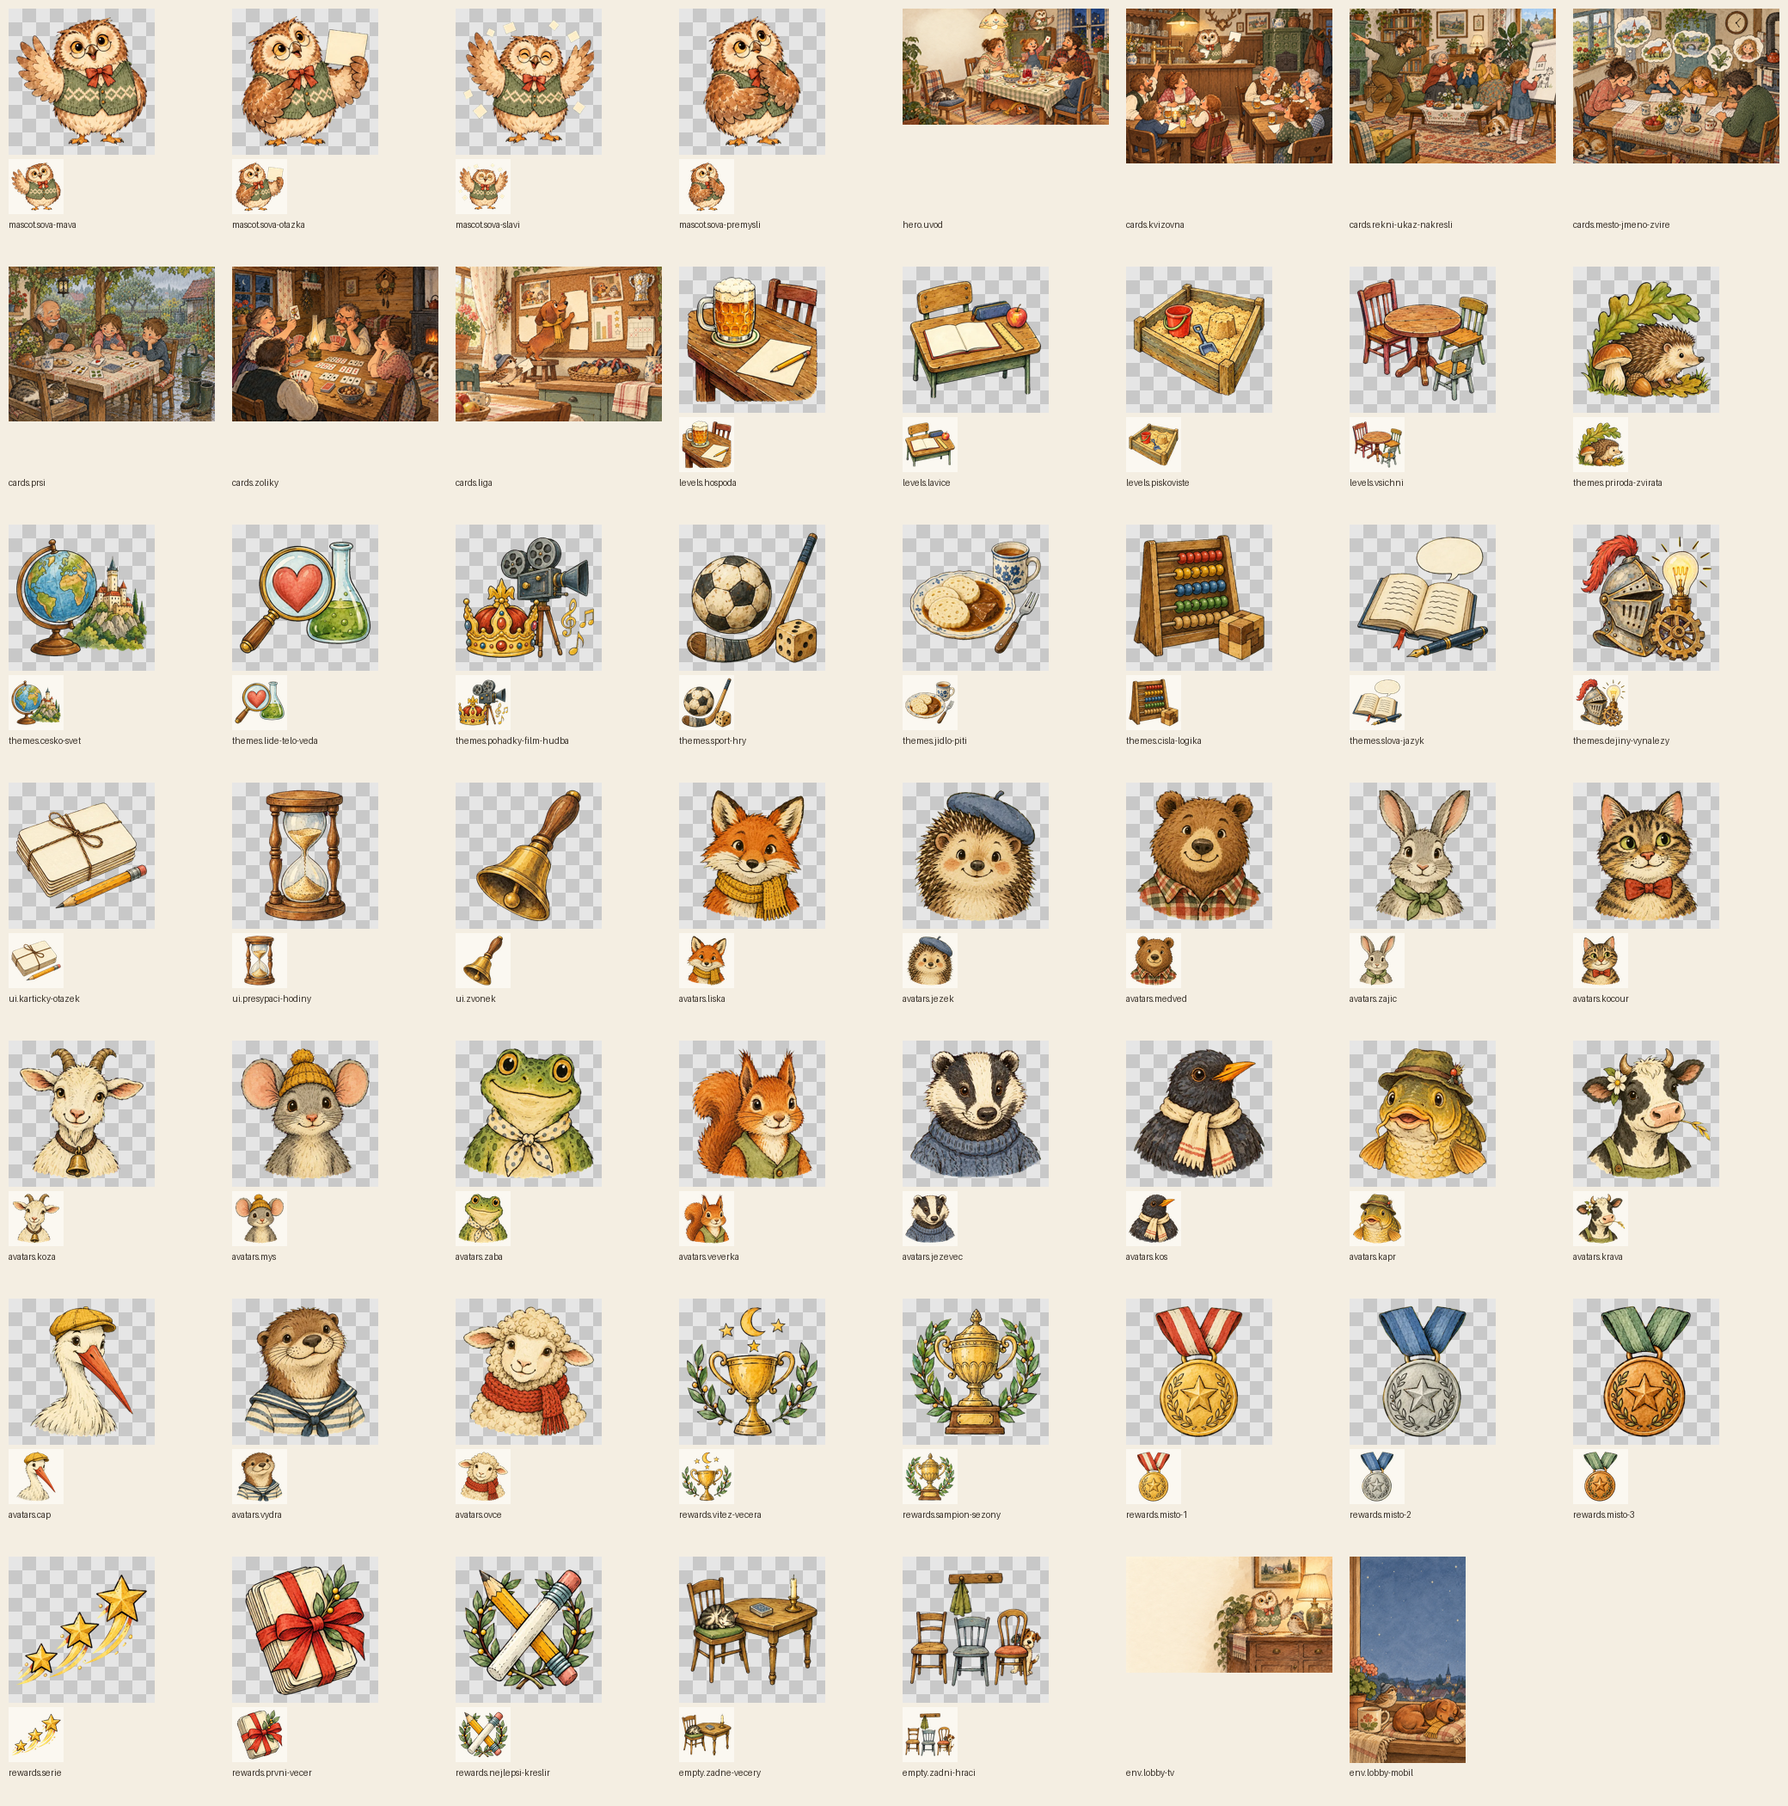
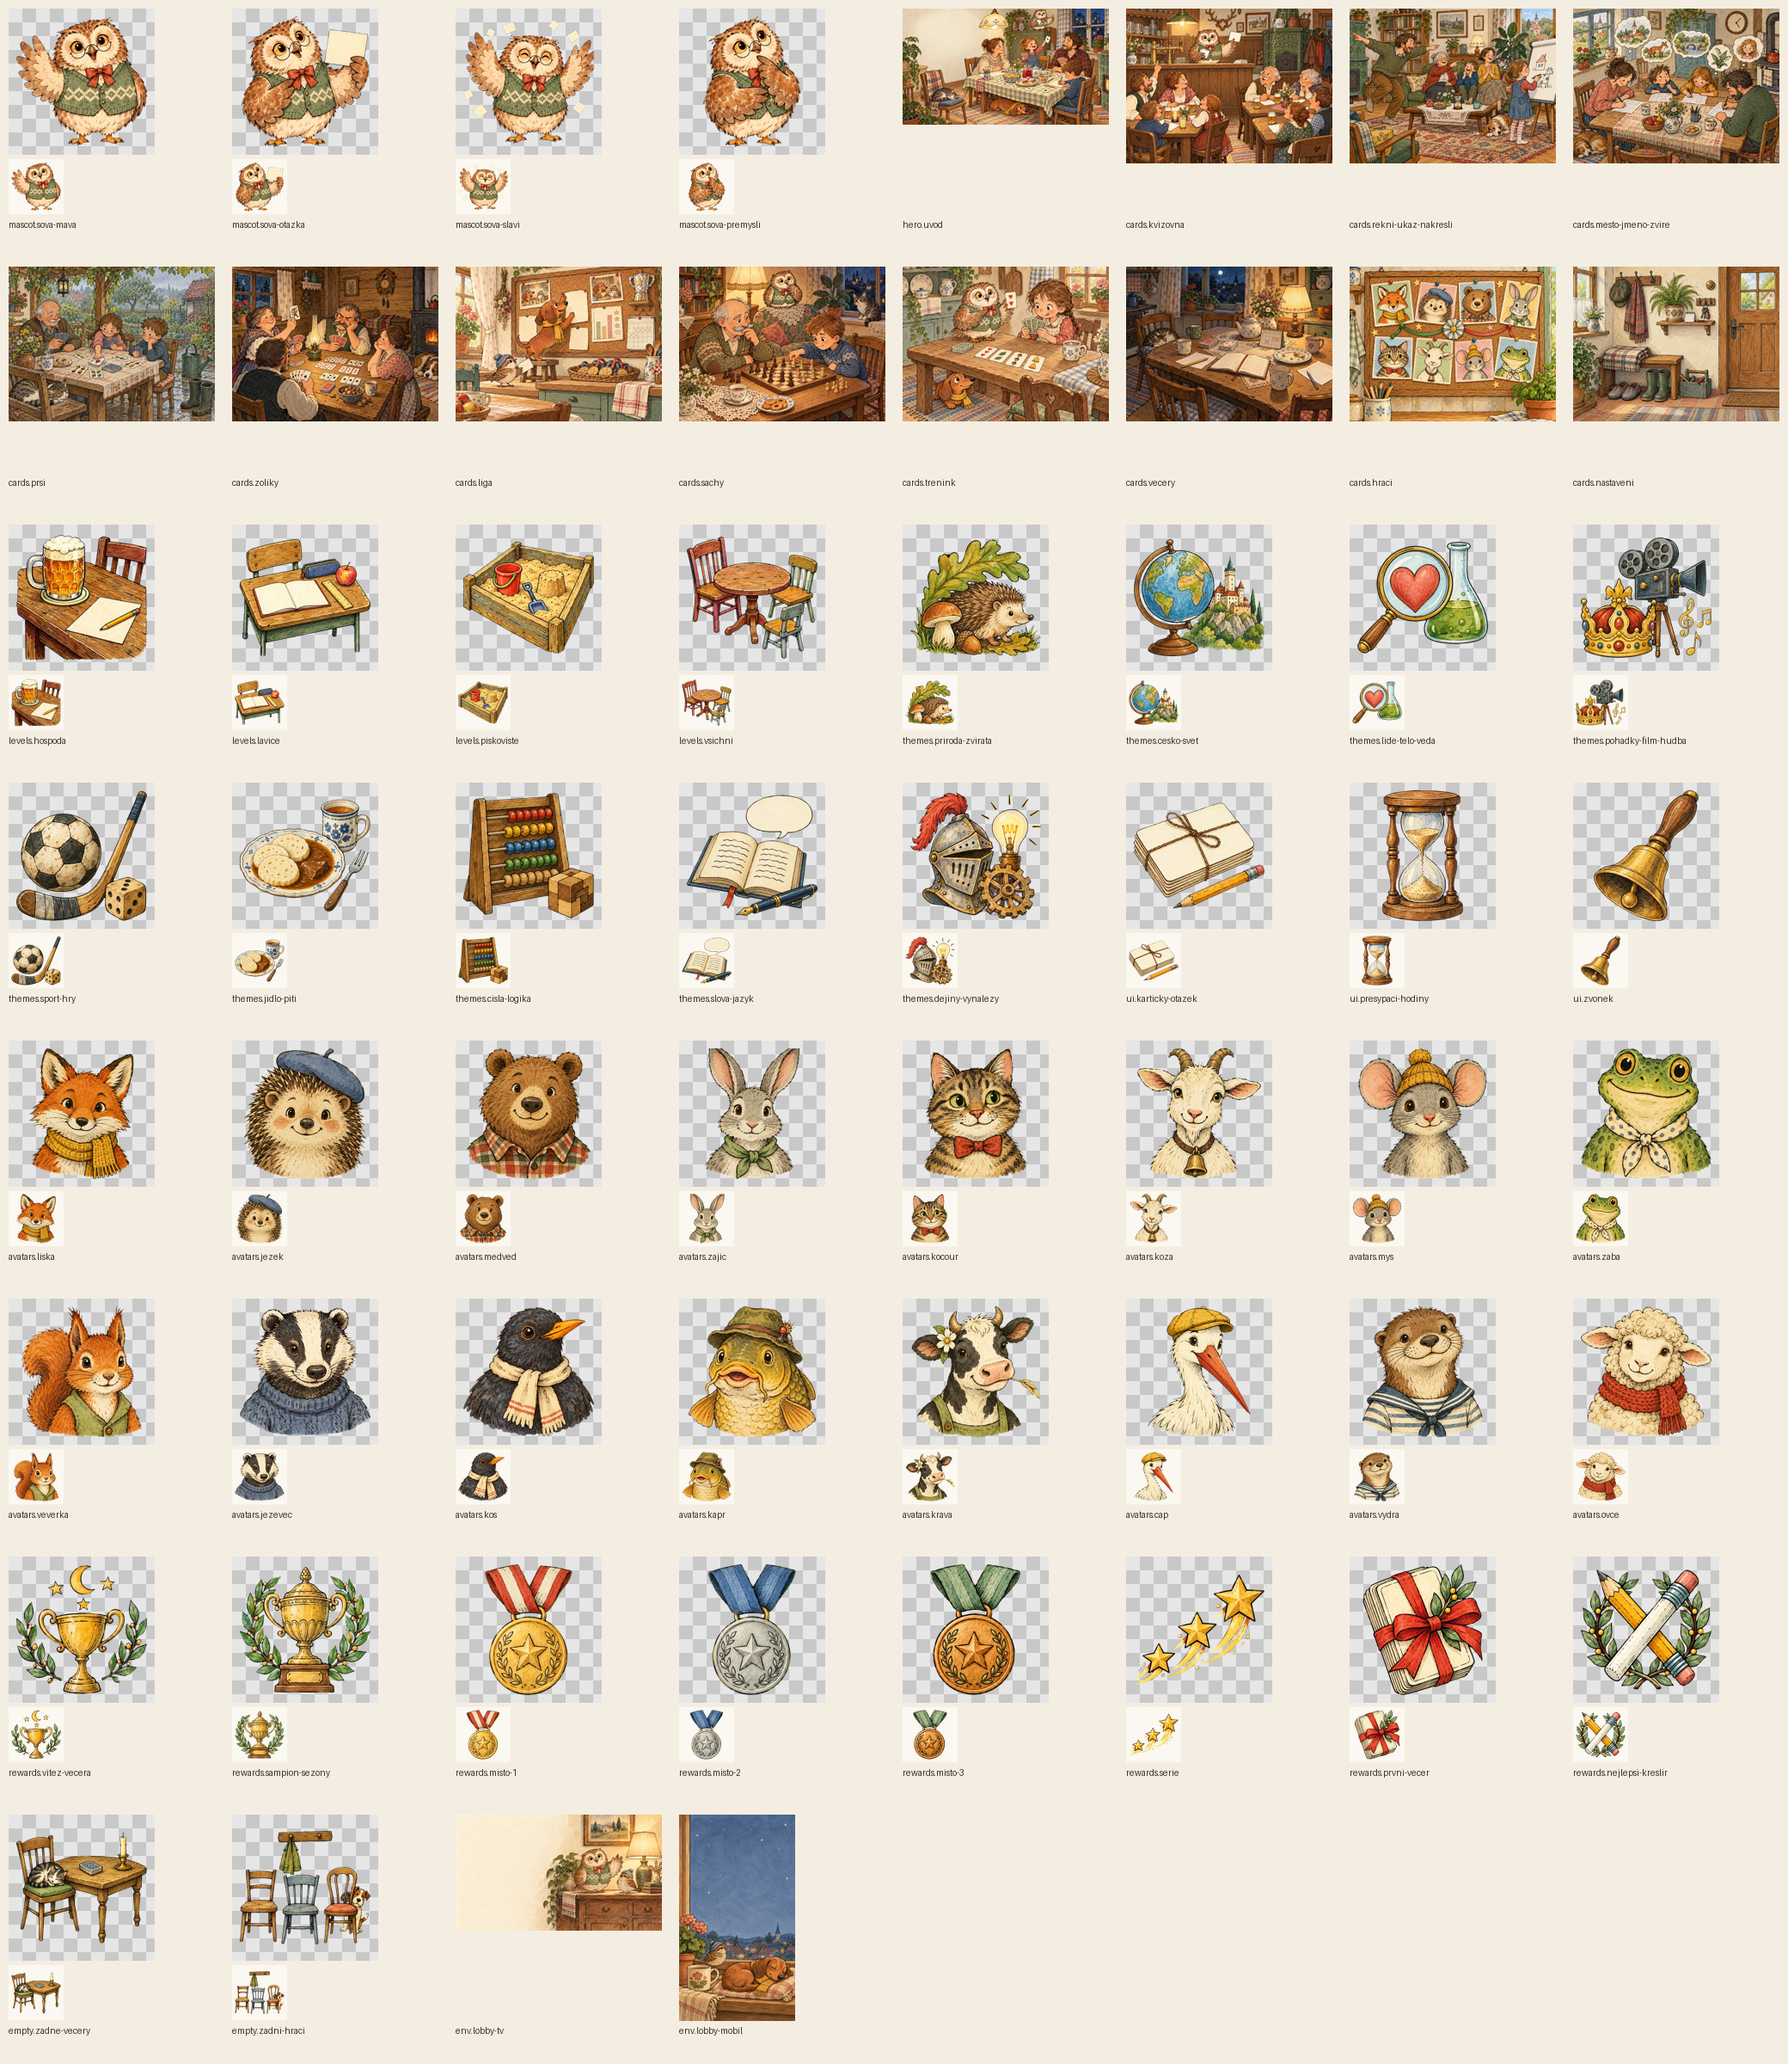
feat(art): own illustrations for chess, card training, evenings, players and settings; eager game tiles; level art on players
Chess no longer borrows the thinking owl. Game tiles load eagerly, so they are never blank
below the fold. The empty discard pile shows a dash instead of a second „Odhozené“ label.
Players, player profile and chess guest picker show level illustrations instead of emoji.

Claude-Session: https://claude.ai/code/session_015SrzPLfnfP9FnPxmHBhUN2

diff --git a/src/routes/+page.svelte b/src/routes/+page.svelte
@@ -243,13 +243,13 @@
         <GameCard art={GAME_ART.sachy} title={GAME_NAMES.sachy} text="Proti počítači, ve dvou nebo s lekcemi od sovy." href="/sachy" testid="game-sachy" />
         <GameCard art={GAME_ART.prsi} title={GAME_NAMES.prsi} text="Zápis partie s opravdovými kartami." href={cardsHref('prsi')} testid="game-prsi" />
         <GameCard art={GAME_ART.zoliky} title={GAME_NAMES.zoliky} text="Zápis partie s opravdovými kartami." href={cardsHref('zoliky')} testid="game-zoliky" />
+        <GameCard art="cards.trenink" title="Trénink karet" text="Prší a žolíky se sovou: lekce a hra s počítačem." href="/trenink" testid="game-trenink" />
       </div>
       <div class="row more" aria-label="Další způsoby hry">
         <a class="btn" href={today ? `/tablet?night=${today.id}` : '/tablet'}>🦉 Kvízovna na jednom tabletu</a>
         <a class="btn" href={tvHref('chess')}>📺 Šachy na televizi</a>
         <a class="btn" href={tvHref('prsi-hra')}>📺 Prší na televizi</a>
         <a class="btn" href={tvHref('zoliky-hra')}>📺 Žolíky na televizi</a>
-        <a class="btn" href="/trenink">🎓 Trénink karet</a>
       </div>
     </section>
 
@@ -257,9 +257,9 @@
       <h2 class="section-title">Rodina</h2>
       <div class="games small-games">
         <GameCard small art="cards.liga" title="Liga" text="Tabulka sezóny, ratingy a rekordy." href="/liga" />
-        <GameCard small art="rewards.vitez-vecera" title="Večery" text="Odehrané večery a jejich výsledky." href="/vecery" />
-        <GameCard small art="avatars.liska" title="Hráči" text="Profily, avatary a týmy." href="/hraci" />
-        <GameCard small art="ui.zvonek" title="Nastavení domácnosti" text="Účet, PIN, pozvánky a data." href="/domacnost" />
+        <GameCard small art="cards.vecery" title="Večery" text="Odehrané večery a jejich výsledky." href="/vecery" />
+        <GameCard small art="cards.hraci" title="Hráči" text="Profily, avatary a týmy." href="/hraci" />
+        <GameCard small art="cards.nastaveni" title="Nastavení domácnosti" text="Účet, PIN, pozvánky a data." href="/domacnost" />
       </div>
     </section>
 

diff --git a/src/routes/hraci/+page.svelte b/src/routes/hraci/+page.svelte
@@ -1,9 +1,10 @@
 <script lang="ts">
   import { LEVELS, LEVEL_LABELS, type Level } from '#lib/types.ts';
-  import { AVATARS, LEVEL_EMOJI, TEAM_AVATARS } from '#lib/ui/labels.ts';
+  import { AVATARS, TEAM_AVATARS } from '#lib/ui/labels.ts';
+  import ArtIcon from '#lib/ui/live/ArtIcon.svelte';
   import Art from '#lib/ui/art/Art.svelte';
   import Avatar from '#lib/ui/art/Avatar.svelte';
-  import { ART_AVATARS, avatarName, freeArtAvatar } from '#lib/ui/art/art.ts';
+  import { ART_AVATARS, LEVEL_ART, avatarName, freeArtAvatar } from '#lib/ui/art/art.ts';
   import { api, ApiError } from '#lib/ui/app/api.ts';
   import Guard from '#lib/ui/app/Guard.svelte';
   import { session } from '#lib/ui/app/session.svelte.ts';
@@ -155,7 +156,7 @@
                 <span class="grow">
                   <span class="name">{p.name}</span>
                   <span class="meta">
-                    <span class="badge {p.level}">{LEVEL_EMOJI[p.level]} {LEVEL_LABELS[p.level]}</span>
+                    <span class="badge {p.level}"><ArtIcon name={LEVEL_ART[p.level]} /> {LEVEL_LABELS[p.level]}</span>
                     {#if p.birth_year}<span class="muted">nar. {p.birth_year}</span>{/if}
                   </span>
                 </span>
@@ -184,7 +185,7 @@
           <div class="row" role="group" aria-label="Úroveň">
             {#each LEVELS as level (level)}
               <button type="button" class="chip" aria-pressed={formLevel === level} onclick={() => (formLevel = level)}>
-                <span class="emoji">{LEVEL_EMOJI[level]}</span>{LEVEL_LABELS[level]}
+                <ArtIcon name={LEVEL_ART[level]} /> {LEVEL_LABELS[level]}
               </button>
             {/each}
           </div>

diff --git a/src/routes/hrac/[id]/+page.svelte b/src/routes/hrac/[id]/+page.svelte
@@ -1,7 +1,8 @@
 <script lang="ts">
   import { page } from '$app/state';
   import { LEVEL_LABELS, LEVELS, THEME_LABELS, type Level, type Theme } from '#lib/types.ts';
-  import { LEVEL_EMOJI, THEME_EMOJI } from '#lib/ui/labels.ts';
+  import { THEME_EMOJI } from '#lib/ui/labels.ts';
+  import ArtIcon from '#lib/ui/live/ArtIcon.svelte';
   import { api, ApiError, formatDateTime, GAME_EMOJI, GAME_LABELS, percent } from '#lib/ui/app/api.ts';
   import Guard from '#lib/ui/app/Guard.svelte';
   import Medal from '#lib/ui/app/Medal.svelte';
@@ -78,7 +79,7 @@
         <div class="grow">
           <h1>{p.name}</h1>
           <div class="row meta">
-            <span class="badge {p.level}">{LEVEL_EMOJI[p.level]} {LEVEL_LABELS[p.level]}</span>
+            <span class="badge {p.level}"><ArtIcon name={LEVEL_ART[p.level]} /> {LEVEL_LABELS[p.level]}</span>
             {#if p.birth_year}<span class="muted">nar. {p.birth_year}</span>{/if}
             {#if p.archived_at}<span class="muted">archivovaný</span>{/if}
           </div>

diff --git a/src/lib/ui/live/ZolikyPhone.svelte b/src/lib/ui/live/ZolikyPhone.svelte
@@ -185,7 +185,7 @@
         <span class="muted small">Balíček ({view.stockCount})</span>
       </button>
       <button type="button" class="pile" disabled={!myTurn || view.step !== 'draw' || !view.topDiscard} onclick={() => room.actZoliky({ type: 'takeDiscard' })} aria-label="Vzít z odhozených" data-testid="discard">
-        {#if view.topDiscard}<Card id={view.topDiscard} width={58} />{:else}<span class="empty">—</span>{/if}
+        {#if view.topDiscard}<Card id={view.topDiscard} width={58} />{:else}<span class="empty" aria-hidden="true">—</span>{/if}
         <span class="muted small">Odhozené</span>
       </button>
       <div class="stack tight">{#each recent as line, i (i + line)}<span class="muted small">{line}</span>{/each}</div>

diff --git a/src/lib/ui/chess/PlayerPicker.svelte b/src/lib/ui/chess/PlayerPicker.svelte
@@ -1,6 +1,7 @@
 <script lang="ts">
   import { LEVELS, LEVEL_LABELS } from '../../types.ts';
-  import { LEVEL_EMOJI } from '../labels.ts';
+  import { LEVEL_ART } from '../art/art.ts';
+  import ArtIcon from '../live/ArtIcon.svelte';
   import Avatar from '../art/Avatar.svelte';
   import type { Profile } from '../../storage.ts';
   import type { Learner as Picked } from './storage.ts';
@@ -58,7 +59,7 @@
           onclick={() => {
             guest.level = level;
             onchange({ ...guest });
-          }}><span aria-hidden="true">{LEVEL_EMOJI[level]}</span>{LEVEL_LABELS[level]}</button
+          }}><ArtIcon name={LEVEL_ART[level]} /> {LEVEL_LABELS[level]}</button
         >
       {/each}
     </div>

diff --git a/src/lib/ui/karty-hra/ZolikyTable.svelte b/src/lib/ui/karty-hra/ZolikyTable.svelte
@@ -265,7 +265,7 @@
         <span class="muted small">Balíček ({game.stock.length})</span>
       </button>
       <button type="button" class="pile" disabled={!myTurn || game.step !== 'draw' || !top} onclick={() => run({ type: 'takeDiscard' })} aria-label="Vzít z odhozených" data-testid="discard">
-        {#if top}<Card id={top} width={74} />{:else}<span class="empty">Odhozené</span>{/if}
+        {#if top}<Card id={top} width={74} />{:else}<span class="empty" aria-hidden="true">—</span>{/if}
         <span class="muted small">Odhozené</span>
       </button>
     </div>

diff --git a/src/lib/live/games.ts b/src/lib/live/games.ts
@@ -12,12 +12,12 @@ export const ROOM_GAME_LABELS: Record<RoomGame, string> = {
   'zoliky-hra': 'Žolíky',
 };
 
-/** Illustration of each room game (static/art/manifest.json); chess borrows the thinking owl. */
+/** Illustration of each room game (static/art/manifest.json). */
 export const ROOM_GAME_ART: Record<RoomGame, string> = {
   quiz: 'cards.kvizovna',
   aktivity: 'cards.rekni-ukaz-nakresli',
   mjz: 'cards.mesto-jmeno-zvire',
-  chess: 'mascot.sova-premysli',
+  chess: 'cards.sachy',
   'prsi-hra': 'cards.prsi',
   'zoliky-hra': 'cards.zoliky',
 };

diff --git a/src/lib/ui/art/art.ts b/src/lib/ui/art/art.ts
@@ -109,12 +109,12 @@ export const GAME_NAMES: Record<GameId, string> = {
   zoliky: 'Žolíky',
 };
 
-/** Card illustration per game. Chess has no picture of its own yet; the mascot thinking over a move stands in. */
+/** Card illustration per game. */
 export const GAME_ART: Record<GameId, string> = {
   kvizovna: 'cards.kvizovna',
   aktivity: 'cards.rekni-ukaz-nakresli',
   mjz: 'cards.mesto-jmeno-zvire',
-  sachy: 'mascot.sova-premysli',
+  sachy: 'cards.sachy',
   prsi: 'cards.prsi',
   zoliky: 'cards.zoliky',
 };

diff --git a/src/lib/ui/live/ZolikyTv.svelte b/src/lib/ui/live/ZolikyTv.svelte
@@ -69,7 +69,7 @@
             <span class="muted">Balíček ({view.stockCount})</span>
           </div>
           <div class="pile" data-testid="discard">
-            {#if view.topDiscard}<Card id={view.topDiscard} width={110} />{:else}<span class="empty">—</span>{/if}
+            {#if view.topDiscard}<Card id={view.topDiscard} width={110} />{:else}<span class="empty" aria-hidden="true">—</span>{/if}
             <span class="muted">Odhozené ({view.discardCount})</span>
           </div>
         </div>

diff --git a/src/lib/ui/art/GameCard.svelte b/src/lib/ui/art/GameCard.svelte
@@ -38,7 +38,8 @@
 </script>
 
 {#snippet body()}
-  <span class="pic" class:icon><Art name={artName} decorative {sizes} /></span>
+  <!-- Eager: the tiles are the page itself; lazy loading left them blank in full-page captures and on slow scrolls. -->
+  <span class="pic" class:icon><Art name={artName} decorative eager {sizes} /></span>
   <span class="txt">
     <strong>{title}</strong>
     {#if text}<span class="muted">{text}</span>{/if}

diff --git a/design/art/tools/process.py b/design/art/tools/process.py
@@ -30,6 +30,11 @@ ITEMS = [
   ("cards", "prsi", "cards/prsi.png", None, (1200, 900), "Děda s dětmi hraje Prší pod pergolou, venku prší"),
   ("cards", "zoliky", "cards/zoliky.png", None, (1200, 900), "Dospělí na chatě hrají žolíky, teta drží žolíka"),
   ("cards", "liga", "cards/liga.png", None, (1200, 900), "Nástěnka rodinné ligy s výsledky, jezevčík připíná nový list"),
+  ("cards", "sachy", "cards/sachy.png", None, (1200, 900), "Děda s vnukem hrají šachy v obýváku, sova přihlíží"),
+  ("cards", "trenink", "cards/trenink.png", None, (1200, 900), "Sova učí holčičku karty u kuchyňského stolu"),
+  ("cards", "vecery", "cards/vecery.png", None, (1200, 900), "Večerní stůl po hře: zápisník, kalendář a karty"),
+  ("cards", "hraci", "cards/hraci.png", None, (1200, 900), "Nástěnka s portréty zvířátek-hráčů"),
+  ("cards", "nastaveni", "cards/nastaveni.png", None, (1200, 900), "Domácí kout u dveří s klíči a bločkem"),
   ("levels", "hospoda", "grids/levels.png", 0, (512, 512), "Hospoda – úroveň pro dospělé: pivo a odpovědní lístek"),
   ("levels", "lavice", "grids/levels.png", 1, (512, 512), "Lavice – úroveň pro školáky: školní lavice se sešitem"),
   ("levels", "piskoviste", "grids/levels.png", 2, (512, 512), "Pískoviště – úroveň pro předškoláky: kyblík a bábovička"),
